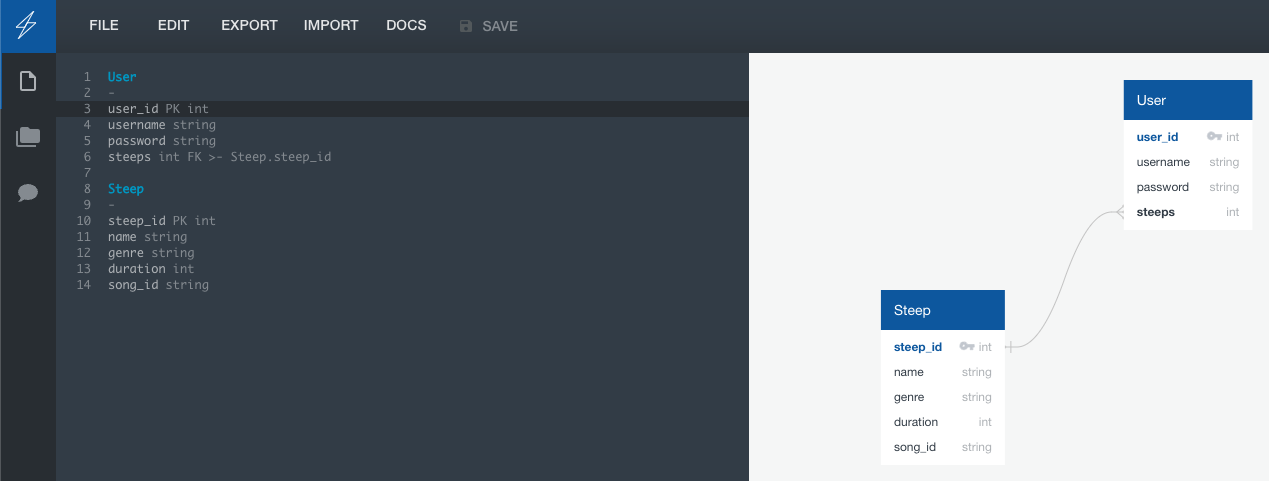
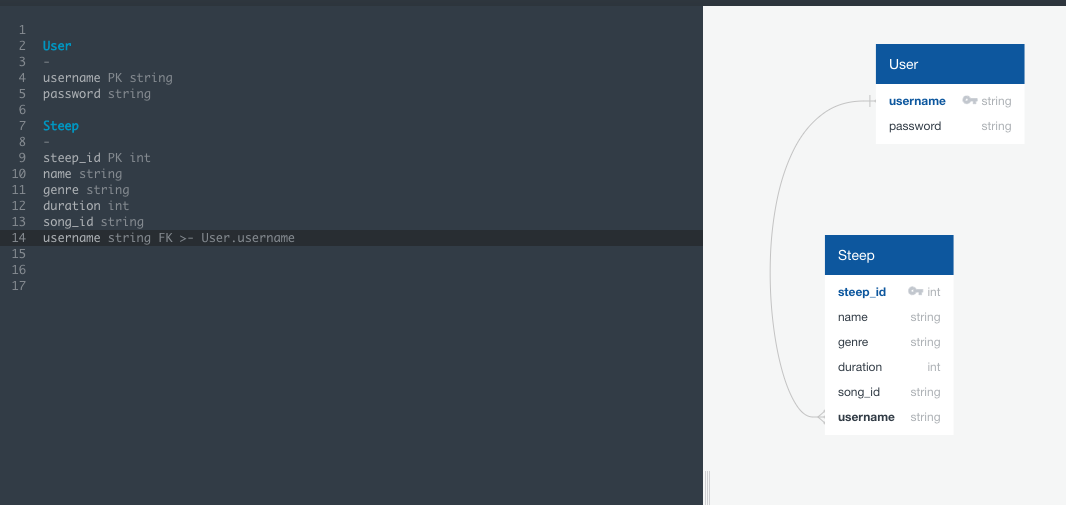
working on steeps

diff --git a/templates/player.html b/templates/player.html
@@ -1,11 +1,9 @@
 {% extends 'homepage.html' %} {% block content %}
 <div class="container">
+  <form class="form">
+    <button formaction="/" class="btn btn-success">Start a New Steep</button>
+  </form>
   <br />
-  {% for msg in get_flashed_messages() %}
-  <div class="alert alert-info">{{msg}}</div>
-  {% endfor %}
-  <br />
-
   <iframe
     style="border-radius: 12px"
     src="https://open.spotify.com/embed/track/{{src_id}}?utm_source=generator"
@@ -17,15 +15,24 @@
     loading="lazy"
   ></iframe>
   <br />
+  <br />
+  {% if g.user %}
+  <div class="container">
+    <div class="row justify-content-md-center">
+      <div class="col-md-7 col-lg-5">
+        <!-- <h2 class="join-message">Save Steep</h2> -->
+        <form action="/savesteep" method="POST" id="steep_form">
+          {{ form2.hidden_tag() }} {% for field in form2 if
+          field.widget.input_type != 'hidden' %} {% for error in field.errors %}
+          <span class="text-danger">{{ error }}</span>
+          {% endfor %} {{ field(placeholder=field.label.text,
+          class_="form-control") }} <br />{% endfor %}
 
-  <form>
-    <button formaction="/" class="btn btn-success">Start a New Steep</button>
-    {% if g.user %}
-    <button class="btn btn-dark">Save Steep to Your Profile</button>
-    <button class="btn btn-primary">
-      Save Steep to Your Profile with this Track
-    </button>
-    {% endif %}
-  </form>
-  {% endblock %}
+          <button class="btn btn-dark">Save Steep to Your Profile</button>
+        </form>
+      </div>
+    </div>
+  </div>
+  {% endif %}
 </div>
+{% endblock %}

diff --git a/templates/login.html b/templates/login.html
@@ -1,0 +1,19 @@
+{% extends 'base.html' %} {% block content %}
+<br />
+<div class="row justify-content-md-center">
+  <div class="col-md-7 col-lg-5">
+    <h2 class="join-message">Log in to Steepr.</h2>
+    <br />
+    <form method="POST" id="login_form">
+      {{ form.hidden_tag() }} {% for field in form if field.widget.input_type !=
+      'hidden' %} {% for error in field.errors %}
+      <span class="text-danger">{{ error }}</span>
+      {% endfor %} {{ field(placeholder=field.label.text, class_="form-control")
+      }} <br />{% endfor %}
+
+      <button class="btn btn-primary btn-lg btn-block">Log in!</button>
+    </form>
+  </div>
+</div>
+
+{% endblock %}

diff --git a/templates/homepage.html b/templates/homepage.html
@@ -27,6 +27,16 @@
     </div>
   </div>
   <br />
+  {% if g.user %}
+  <div class="col-xs-1 text-center">
+    <h3>Your Steeps</h3>
+    <ul style="list-style: none" class="text-center">
+      {% for steep in g.user.steeps %}
+      <li><a href="">{{steep.name}}</a></li>
+      {% endfor %}
+    </ul>
+  </div>
+  {% endif %}
   <div class="col-xs-1 text-center">
     <h3>Recent Steeps</h3>
     <ul style="list-style: none" class="text-center">

diff --git a/templates/signup.html b/templates/signup.html
@@ -3,7 +3,7 @@
 <div class="row justify-content-md-center">
   <div class="col-md-7 col-lg-5">
     <h2 class="join-message">Join Steepr.</h2>
-    <form method="POST" id="user_form">
+    <form method="POST" id="signup_form">
       {{ form.hidden_tag() }} {% for field in form if field.widget.input_type !=
       'hidden' %} {% for error in field.errors %}
       <span class="text-danger">{{ error }}</span>

diff --git a/templates/base.html b/templates/base.html
@@ -28,6 +28,13 @@
         {% endif %}
       </ul>
     </nav>
+    <div class="container">
+      <br />
+      {% for msg in get_flashed_messages() %}
+      <div class="alert alert-info">{{msg}}</div>
+      {% endfor %}
+      <br />
+    </div>
     {% block content %} {% endblock %}
   </body>
 </html>

diff --git a/static/app.css b/static/app.css
@@ -1,3 +1,3 @@
 body {
-  background-color: rgb(166, 206, 220);
+  background-color: rgb(28, 131, 172);
 }

diff --git a/app.py b/app.py
@@ -2,7 +2,7 @@ from flask import Flask, request, render_template, redirect, flash, jsonify, ses
 from random import randint, choice
 from flask_debugtoolbar import DebugToolbarExtension
 import requests
-from forms import SearchForm, UserAddForm
+from forms import SearchForm, UserAddForm, LoginForm, SteepAddForm
 from spotipy.oauth2 import SpotifyClientCredentials
 from models import db, connect_db, User, Steep
 import spotipy
@@ -17,6 +17,8 @@ app.config['SQLALCHEMY_TRACK_MODIFICATIONS'] = False
 app.config['SQLALCHEMY_ECHO'] = True
 app.config['WTF_CSRF_ENABLED'] = True
 debug = DebugToolbarExtension(app)
+
+CURR_USER_KEY = "curr_user"
 
 connect_db(app)
 
@@ -58,27 +60,28 @@ def get_track(minutes, genre):
 
     return src_id
 
-# *********View Functions**********
+# *********User Login Functions**********
 
-@app.route('/', methods=['GET', 'POST'])
-def homepage():
-  '''Show user form and embedded player.'''
+@app.before_request
+def add_user_to_g():
+    """If we're logged in, add curr user to Flask global."""
 
-  form = SearchForm()
+    if CURR_USER_KEY in session:
+        g.user = User.query.get(session[CURR_USER_KEY])
 
-  steeps = Steep.query.all()
+    else:
+        g.user = None
 
-  if form.validate_on_submit():
-    minutes = int(form.minutes.data)
-    genre = form.genre.data
+def do_login(user):
+    """Log in user."""
 
-    src_id = get_track(minutes, genre)
+    session[CURR_USER_KEY] = user.username
 
-    flash(f'You chose a {genre} song that is ~{minutes} minutes long. Press play to start steeping! Your tea will be ready when the song is over.')
-    return render_template('player.html', src_id=src_id, genre=genre, minutes=minutes)
+def do_logout():
+    """Logout user."""
 
-  else:
-    return render_template('homepage.html', form=form, steeps=steeps)
+    if CURR_USER_KEY in session:
+        del session[CURR_USER_KEY]
 
 @app.route('/signup', methods=['GET', 'POST'])
 def sign_user_up():
@@ -93,14 +96,96 @@ def sign_user_up():
     )
     db.session.commit()
 
+    do_login(user)
+
     return redirect('/')
 
   else:
     return render_template('signup.html', form=form)
 
 
-
-@app.route('/login')
+@app.route('/login', methods=['GET', 'POST'])
 def log_user_in():
   '''Authenticate and log in user.'''
+  form = LoginForm()
+
+  if form.validate_on_submit():
+    user = User.authenticate(form.username.data, form.password.data)
+
+    if user:
+      do_login(user)
+      flash(f"Hello, {user.username}!", "success")
+      return redirect('/')
+
+  return render_template('login.html', form=form)
+
+
+@app.route('/logout')
+def log_user_out():
+  '''Log user out, remove from session.'''
+
+  do_logout()
+  flash(f"You have logged out!", "success")
   return redirect('/')
+
+# *********View Functions**********
+
+@app.route('/', methods=['GET', 'POST'])
+def homepage():
+  '''Show user form and embedded player.'''
+
+  form = SearchForm()
+
+  another_form = SteepAddForm()
+
+  steeps = Steep.query.limit(5)
+
+  if form.validate_on_submit():
+    minutes = int(form.minutes.data)
+    genre = form.genre.data
+
+    src_id = get_track(minutes, genre)
+
+    flash(f'You chose a {genre} song that is ~{minutes} minutes long. Press play to start steeping! Your tea will be ready when the song is over.')
+    return render_template('player.html', src_id=src_id, genre=genre, minutes=minutes, form2=another_form)
+
+  else:
+    return render_template('homepage.html', form=form, steeps=steeps)
+
+@app.route('/savesteep', methods=['GET', 'POST'])
+def add_steep():
+  '''add a steep to db.'''
+
+  form = SteepAddForm()
+
+  user = User.query.get(session[CURR_USER_KEY])
+
+  if form.validate_on_submit():
+
+        steep = Steep(name=form.name.data, genre='', duration='')
+        user.steeps.append(steep)
+        db.session.commit()
+        flash('Steep saved')
+
+        return redirect('/')
+
+  flash('Something went wrong, please try again')
+  return redirect('/')
+
+
+##############################################################################
+# Turn off all caching in Flask
+#   (useful for dev; in production, this kind of stuff is typically
+#   handled elsewhere)
+#
+# https://stackoverflow.com/questions/34066804/disabling-caching-in-flask
+
+@app.after_request
+def add_header(req):
+    """Add non-caching headers on every request."""
+
+    req.headers["Cache-Control"] = "no-cache, no-store, must-revalidate"
+    req.headers["Pragma"] = "no-cache"
+    req.headers["Expires"] = "0"
+    req.headers['Cache-Control'] = 'public, max-age=0'
+    return req

diff --git a/models.py b/models.py
@@ -46,18 +46,18 @@ class User(db.Model):
     db.session.add(user)
     return user
 
-    @classmethod
-    def authenticate(cls, username, password):
-        """Find user with `username` and `password`."""
+  @classmethod
+  def authenticate(cls, username, password):
+    """Find user with `username` and `password`."""
 
-        user = cls.query.filter_by(username=username).first()
+    user = cls.query.filter_by(username=username).first()
 
-        if user:
-            is_auth = bcrypt.check_password_hash(user.password, password)
-            if is_auth:
-                return user
+    if user:
+        is_auth = bcrypt.check_password_hash(user.password, password)
+        if is_auth:
+            return user
 
-        return False
+    return False
 
 class Steep(db.Model):
   '''Steep class.'''

diff --git a/seed.py b/seed.py
@@ -6,8 +6,6 @@ from models import User, Steep, db
 db.drop_all()
 db.create_all()
 
-User.query.delete()
-
 u1 = User.signup(username='tom121', password='tomatoes')
 u2 = User.signup(username='barry151', password='potatoes')
 u3 = User.signup(username='linda761', password='tomatoes')
@@ -20,8 +18,10 @@ db.session.commit()
 s1 = Steep(name='Evening Green Tea', genre='classical', duration='2', username='tom121')
 s2 = Steep(name='Morning English Breakfast', genre='folk', duration='5', username='tom121')
 s3 = Steep(name='Afternoon Rooibos', genre='punk', duration='4', username='tom121')
+s4 = Steep(name='Morning Oolong', genre='jazz', duration='3', username='linda761', song_id='2Pi0rY9FcbaecqO0AyhXb')
 
 db.session.add(s1)
 db.session.add(s2)
 db.session.add(s3)
+db.session.add(s4)
 db.session.commit()

diff --git a/forms.py b/forms.py
@@ -19,3 +19,14 @@ class UserAddForm(FlaskForm):
 
   username = StringField('Username', validators=[InputRequired()])
   password = PasswordField('Password', validators=[InputRequired()])
+
+class LoginForm(FlaskForm):
+  '''Log in if valid.'''
+
+  username = StringField('Username', validators=[InputRequired()])
+  password = PasswordField('Password', validators=[InputRequired()])
+
+class SteepAddForm(FlaskForm):
+  '''Add new steep to DB.'''
+
+  name = StringField('Name', validators=[InputRequired()])
